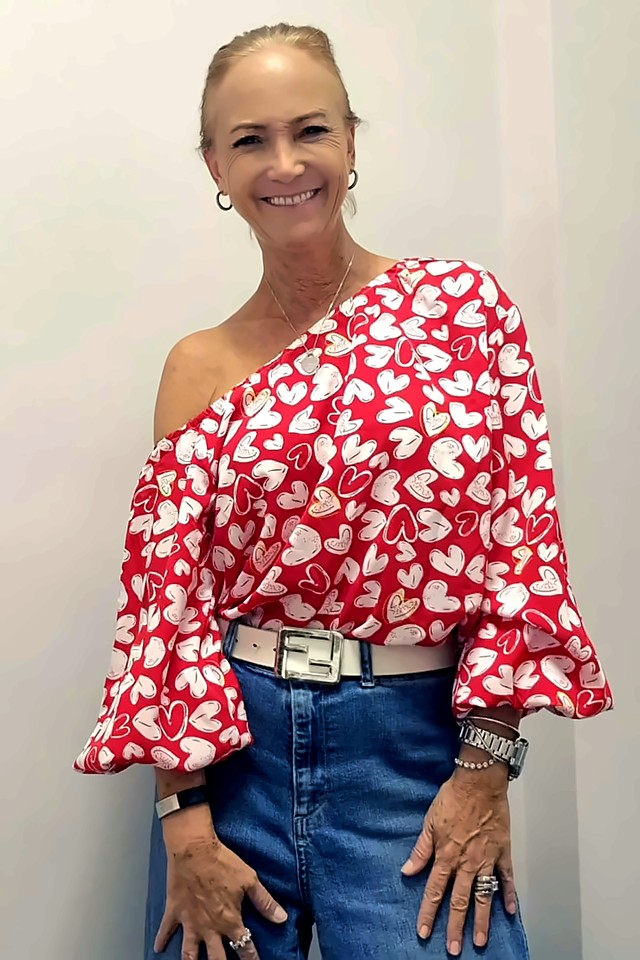
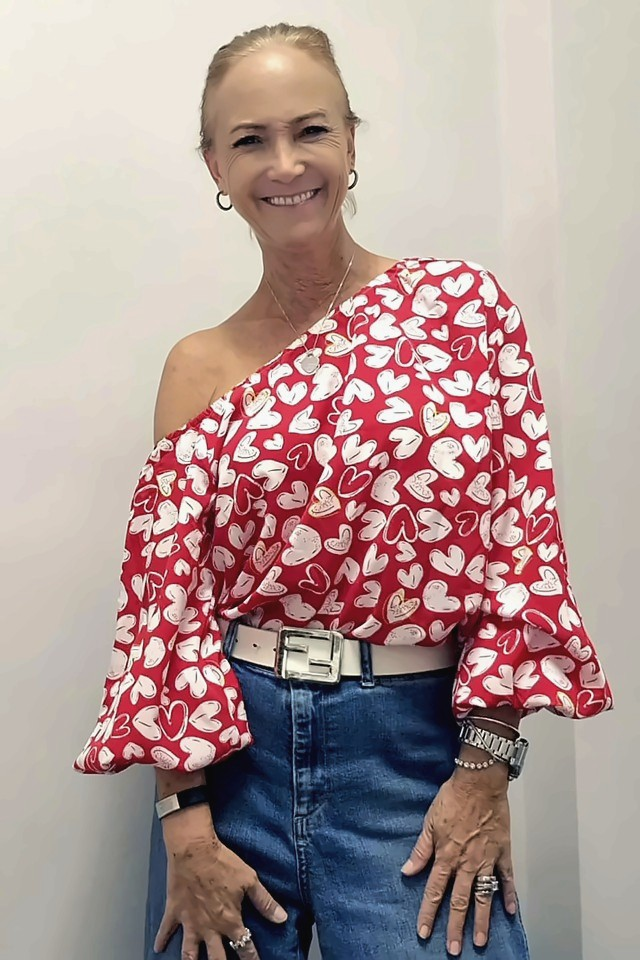
Monilovers: fotos con el color un poco más suave
Claude-Session: https://claude.ai/code/session_01HKDo7aeWSKLCqcJ7VKUFt4

diff --git a/assets/monilovers.js b/assets/monilovers.js
@@ -4,7 +4,7 @@
   const IG = 'https://www.instagram.com/monisalepty/'
   const L = () => { try { return localStorage.getItem('mogi-lang') || 'en' } catch { return 'en' } }
   const es = () => L() === 'es'
-  const img = n => `${base}fotos/monilovers/${n}.jpg?v=1`
+  const img = n => `${base}fotos/monilovers/${n}.jpg?v=2`
 
   // Destacada (la más reciente) y galería. `sim`: prendas a la venta parecidas (ids de la tienda).
   const feat = {
